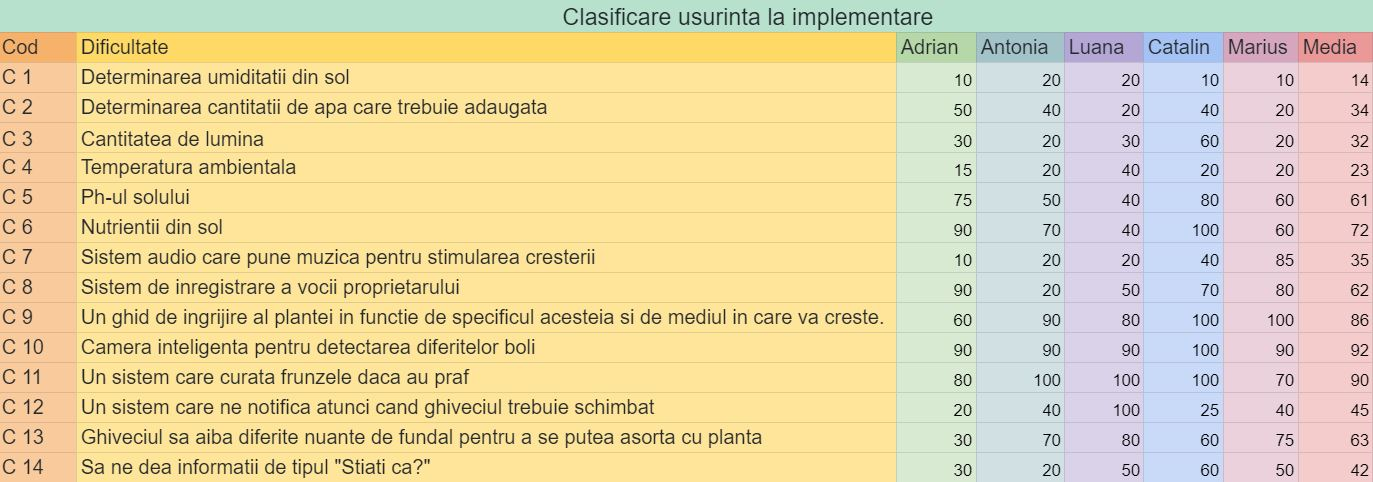
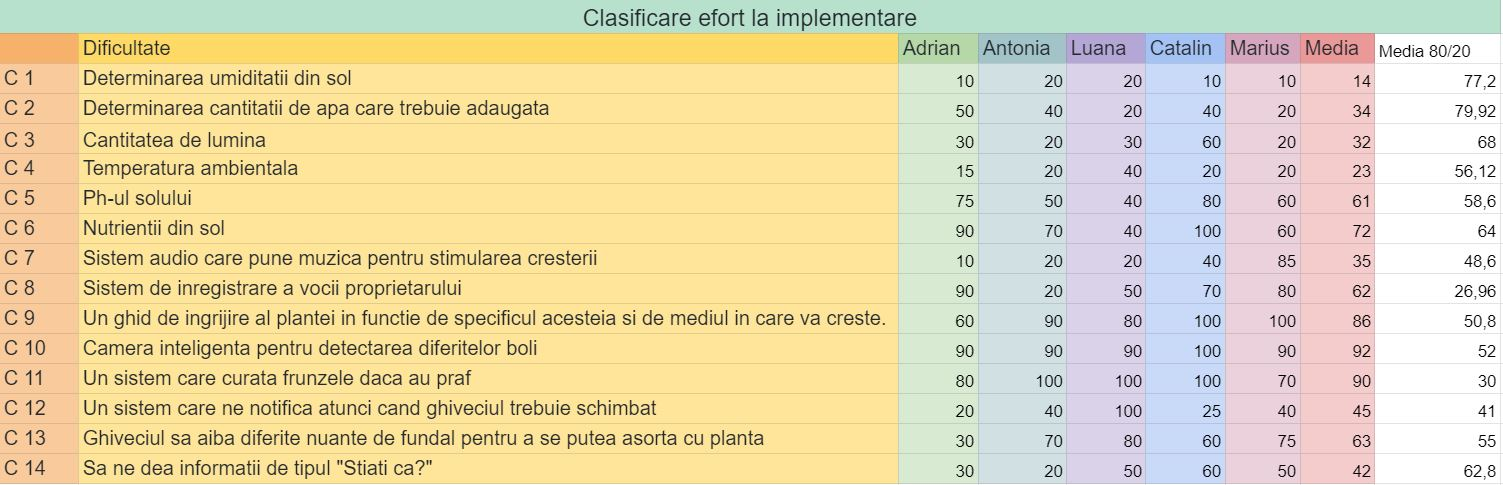
Revise some information

diff --git a/RAPORT DE ANALIZA.md b/RAPORT DE ANALIZA.md
@@ -27,12 +27,16 @@ SMART FLOWERPOT este o aplicatie care transforma un ghiveci normal, care poate s
 De ce am ales un ghiveci care sa ne ajute sa ingrijim o planta? Ghiveciul este singurul obiect fizic care poate fi folosit pentru a crea un canal de comunicare dintre om si planta. Este drept ca planta reactioneaza intr-un anumit mod atunci cand nu este ingrijita cum trebuie, de exemplu se poate ofili, doar ca oameni care nu au cunostinte in domeniul botanicii nu pot sa isi dea seama cum sa vindece planta. 
 
 ## 2.Aria de acoperire a aplicației
-SMART FLOWERPOT este o aplicatie care trimite notificari legate de starea in care se afla o planta din ghiveciul nostru, nu este o aplicatie care sa ingrijeasca singura planta. De exemplu, functionalitatea de a se porni un sistem de irigare in interiorul ghiveciului nu se va regasi.
+SMART FLOWERPOT este o aplicatie care trimite notificari legate de starea in care se afla planta din ghiveciul nostru. De asemenea poate fi prevazuta cu un sistem de irigare care sa ofere cantitatea necasara de apa atunci cand este nevoie.
 
 Aceasta aplicatie imbunatateste un ghiveci astfel incat sa ni se ofere diferite informatii legate de calitatile solului si ale ambientului. Fiecare planta are anumite conditii de mediu, iar in momentul in care una din caracteristici nu este indeplinita ghiveciul va trimite o notificare specifica.
 
 ## 3.Grupurile de interese
-Aceasta aplicatie este destinata pentru orice iubitor de plante care vrea sa aiba mai multa grija de propriile plante, chiar daca are sau nu cunostintele si timpul necesar.
+Aceasta aplicatie este destinata pentru doua grupuri de interes:
+
+* persoanele care vor sa aiba plante, dar nu au cunostintele necesare de ingrijire si nici timp
+* persoanele care vor sa aiba plante, dar au cunostintele necesare de ingrijire si timp
+
 
 ## 4.Colectarea cerințelor
 
@@ -78,7 +82,7 @@ Totodata, am analizat preferintele user-ului tinta, acestia ordonandu-le in ordi
 
 ## 6.Prioritizarea cerințelor
 
-Toti membrii echipei au dat o nota de la 1 la 100 fiecarui feature, atat pentru efectul produs, cat si pentru usurinta de implementare.
+Toti membrii echipei au dat o nota de la 1 la 100 fiecarui feature, atat pentru efectul produs, cat si pentru efortul de implementare.
 
 **Notarea a fost urmatoarea:**
 
